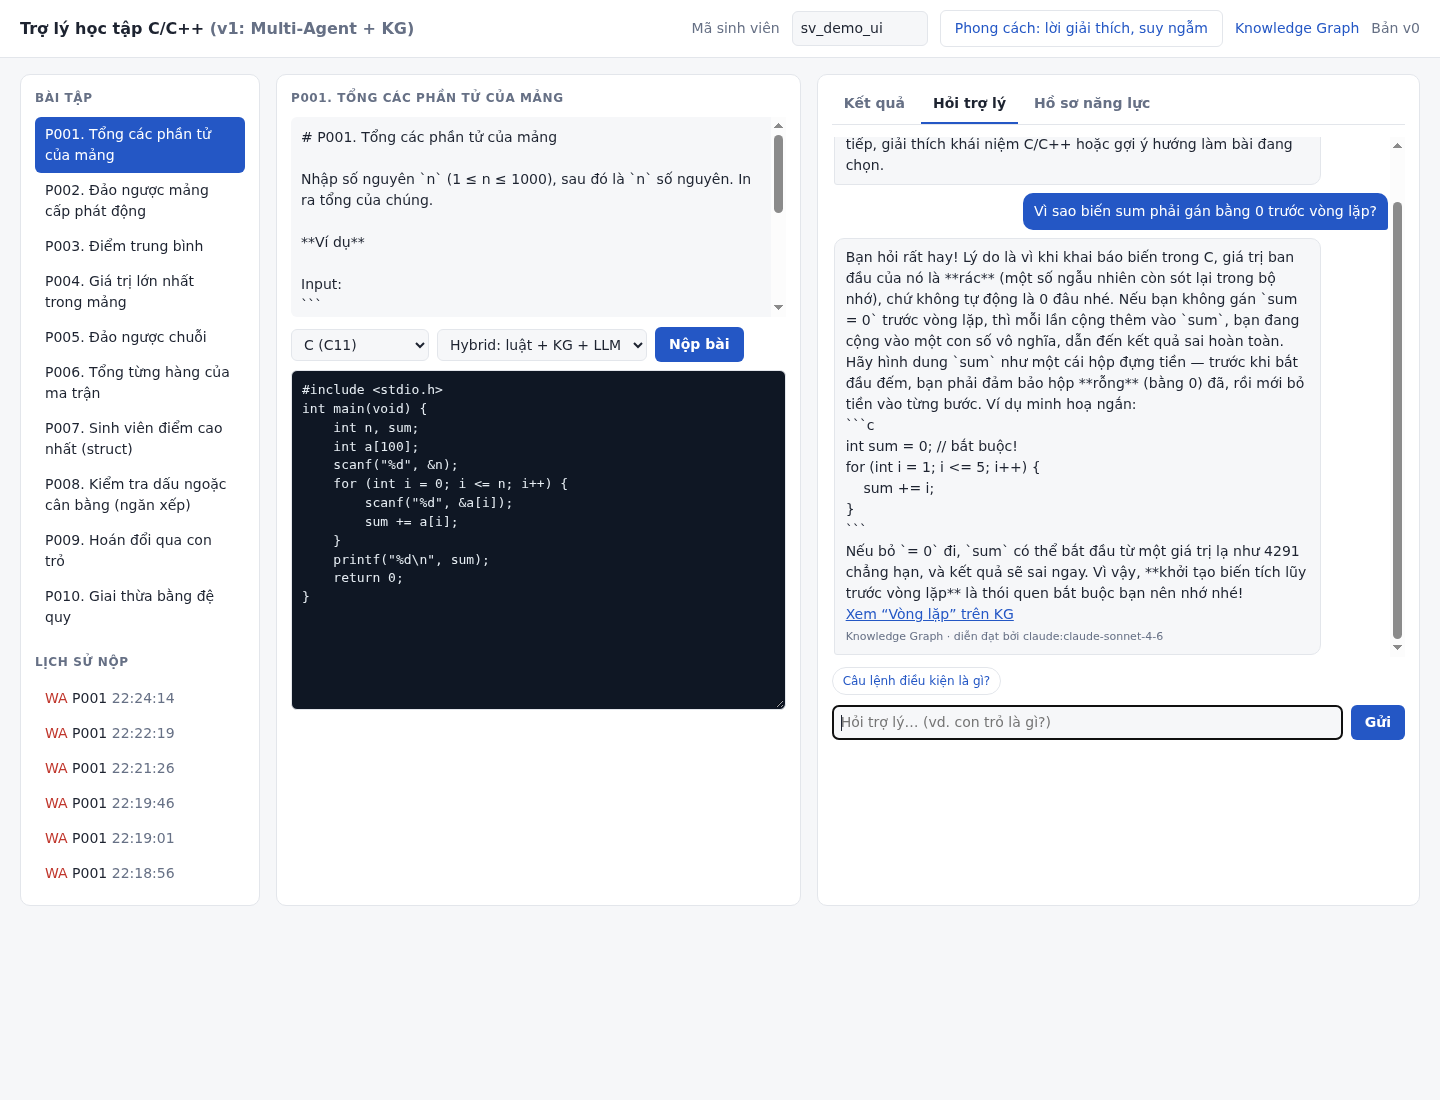
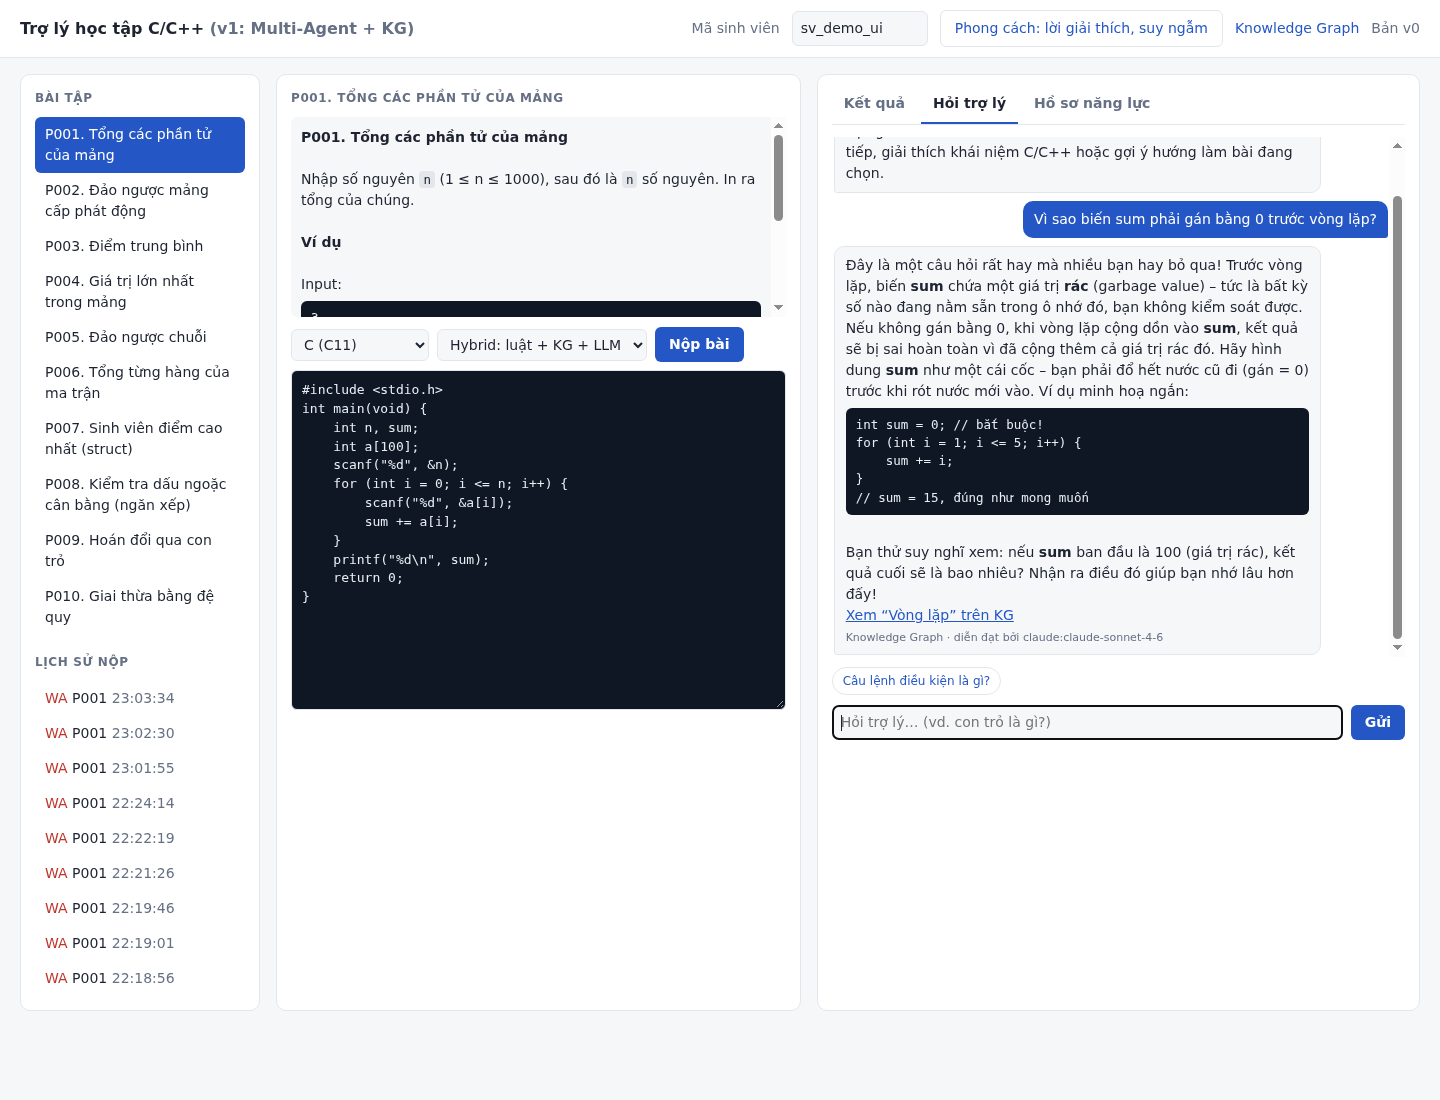
feat(ui): hiển thị markdown tối giản trong chat, chẩn đoán và đề bài
Khối code, code trong dòng, in đậm và dòng tiêu đề; escape HTML trước khi định dạng nên
văn bản của LLM không chèn được HTML. Chụp lại ảnh giao diện v1.

diff --git a/frontend/tutor/index.html b/frontend/tutor/index.html
@@ -110,6 +110,12 @@
              border-bottom-left-radius: 3px; }
   .msg .meta { display: block; font-size: 11px; color: var(--muted); margin-top: 4px; }
   .msg a { color: var(--accent); }
+  /* markdown tối giản trong văn bản của LLM */
+  code { font: 12.5px ui-monospace, SFMono-Regular, Menlo, Consolas, monospace;
+         background: var(--line); padding: 1px 4px; border-radius: 4px; }
+  pre.md-code { margin: 6px 0; padding: 8px 10px; border-radius: 6px; overflow-x: auto;
+                white-space: pre-wrap; background: var(--code-bg); color: var(--code-text);
+                font: 12.5px/1.45 ui-monospace, SFMono-Regular, Menlo, Consolas, monospace; }
   .chips { display: flex; flex-wrap: wrap; gap: 6px; margin: 10px 0; }
   .chips button { font-size: 12px; padding: 4px 10px; border-radius: 999px; }
   #chat-form { display: flex; gap: 8px; }
@@ -202,6 +208,19 @@ tiếp, giải thích khái niệm C/C++ hoặc gợi ý hướng làm bài đan
 const $ = (id) => document.getElementById(id);
 const esc = (s) => String(s ?? "").replace(/[&<>"']/g,
   (c) => ({ "&": "&amp;", "<": "&lt;", ">": "&gt;", '"': "&quot;", "'": "&#39;" }[c]));
+// Markdown tối giản cho đề bài và văn bản LLM: ```khối code```, `code`, **đậm**, dòng tiêu đề #.
+// Escape trước rồi mới thay định dạng, nên văn bản không thể chèn HTML.
+function md(s) {
+  const blocks = [];
+  let h = esc(s).replace(/```[\w+-]*\n?([\s\S]*?)```/g, (_, code) => {
+    blocks.push(`<pre class="md-code">${code.replace(/^\n+|\n+$/g, "")}</pre>`);
+    return `\u0000${blocks.length - 1}\u0000`;
+  });
+  h = h.replace(/`([^`\n]+)`/g, "<code>$1</code>")
+       .replace(/\*\*([^*\n]+)\*\*/g, "<b>$1</b>")
+       .replace(/^#{1,4} +(.+)$/gm, "<b>$1</b>");
+  return h.replace(/\n*\u0000(\d+)\u0000\n*/g, (_, i) => blocks[+i]);  // khối code đã tự xuống dòng
+}
 let current = null, names = { concepts: {}, groups: {} };
 
 const AGENTS = { grading: "Chấm bài", mined_rules: "Khử nhiễu", knowledge_graph: "Cập nhật KG",
@@ -239,7 +258,7 @@ async function selectProblem(id) {
   $("problems").querySelectorAll("li").forEach((li) =>
     li.classList.toggle("active", li.dataset.id === id));
   $("ptitle").textContent = `${p.id}. ${p.title}`;
-  $("statement").textContent = p.statement +
+  $("statement").innerHTML = md(p.statement.trim()) +
     `\n\nGiới hạn: ${p.time_limit_s}s, ${p.memory_mb}MB · ${p.test_count} test`;
 }
 
@@ -289,12 +308,12 @@ function renderResult(res) {
   }
 
   if (d) {
-    html += `<h3>Chẩn đoán</h3><p>${esc(d.explanation)}
+    html += `<h3>Chẩn đoán</h3><p>${md(d.explanation)}
       <span class="muted">(${d.llm_provider ? "giải thích bởi " + esc(d.llm_provider) : "giải thích bằng luật"})</span></p>`;
     html += d.items.map((it) => `<div class="card bug">
         <b>${esc(it.bug_pattern)}</b>${it.lines.length ? ` · dòng ${it.lines.join(", ")}` : ""}
-        <div>${esc(it.explanation)}</div>
-        ${it.fix_hint ? `<div class="fix">🔧 ${esc(it.fix_hint)}</div>` : ""}
+        <div>${md(it.explanation)}</div>
+        ${it.fix_hint ? `<div class="fix">🔧 ${md(it.fix_hint)}</div>` : ""}
         ${it.concepts.length ? `<div class="muted">Khái niệm: ${it.concepts.map((c) =>
           `<a href="/kg-viewer#node=${encodeURIComponent(c)}" target="_blank" data-event="open_kg" data-ref="${esc(c)}">${esc(conceptName(c))}</a>`).join(", ")}</div>` : ""}
       </div>`).join("");
@@ -499,7 +518,8 @@ const AGENT_NAMES = { diagnosis: "Diagnosis Agent", learning_path: "Learning-Pat
 function addMsg(who, text, meta = "", links = []) {
   const div = document.createElement("div");
   div.className = `msg ${who}`;
-  div.textContent = text;
+  if (who === "bot") div.innerHTML = md(text);
+  else div.textContent = text;
   for (const l of links) {
     div.append(document.createElement("br"));
     const a = document.createElement("a");
